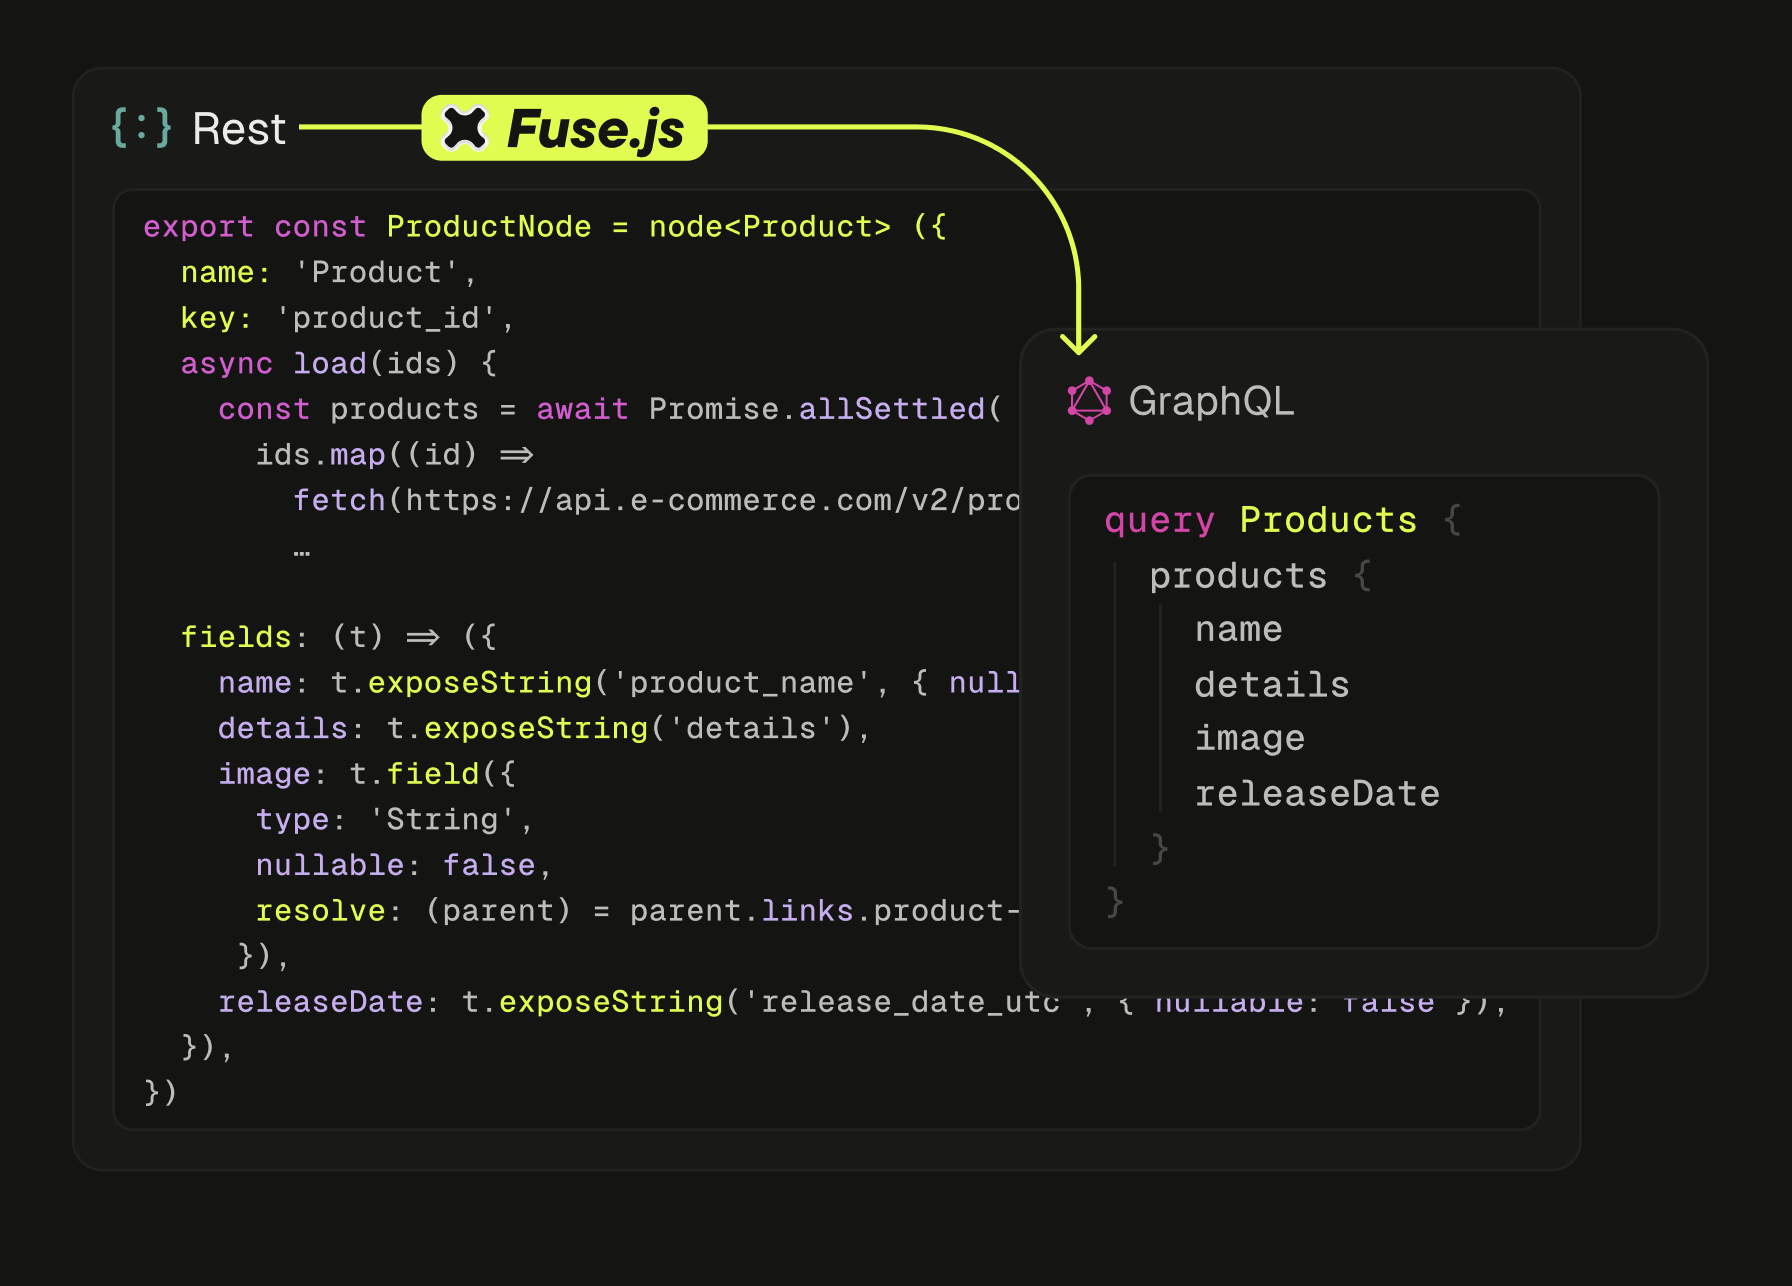
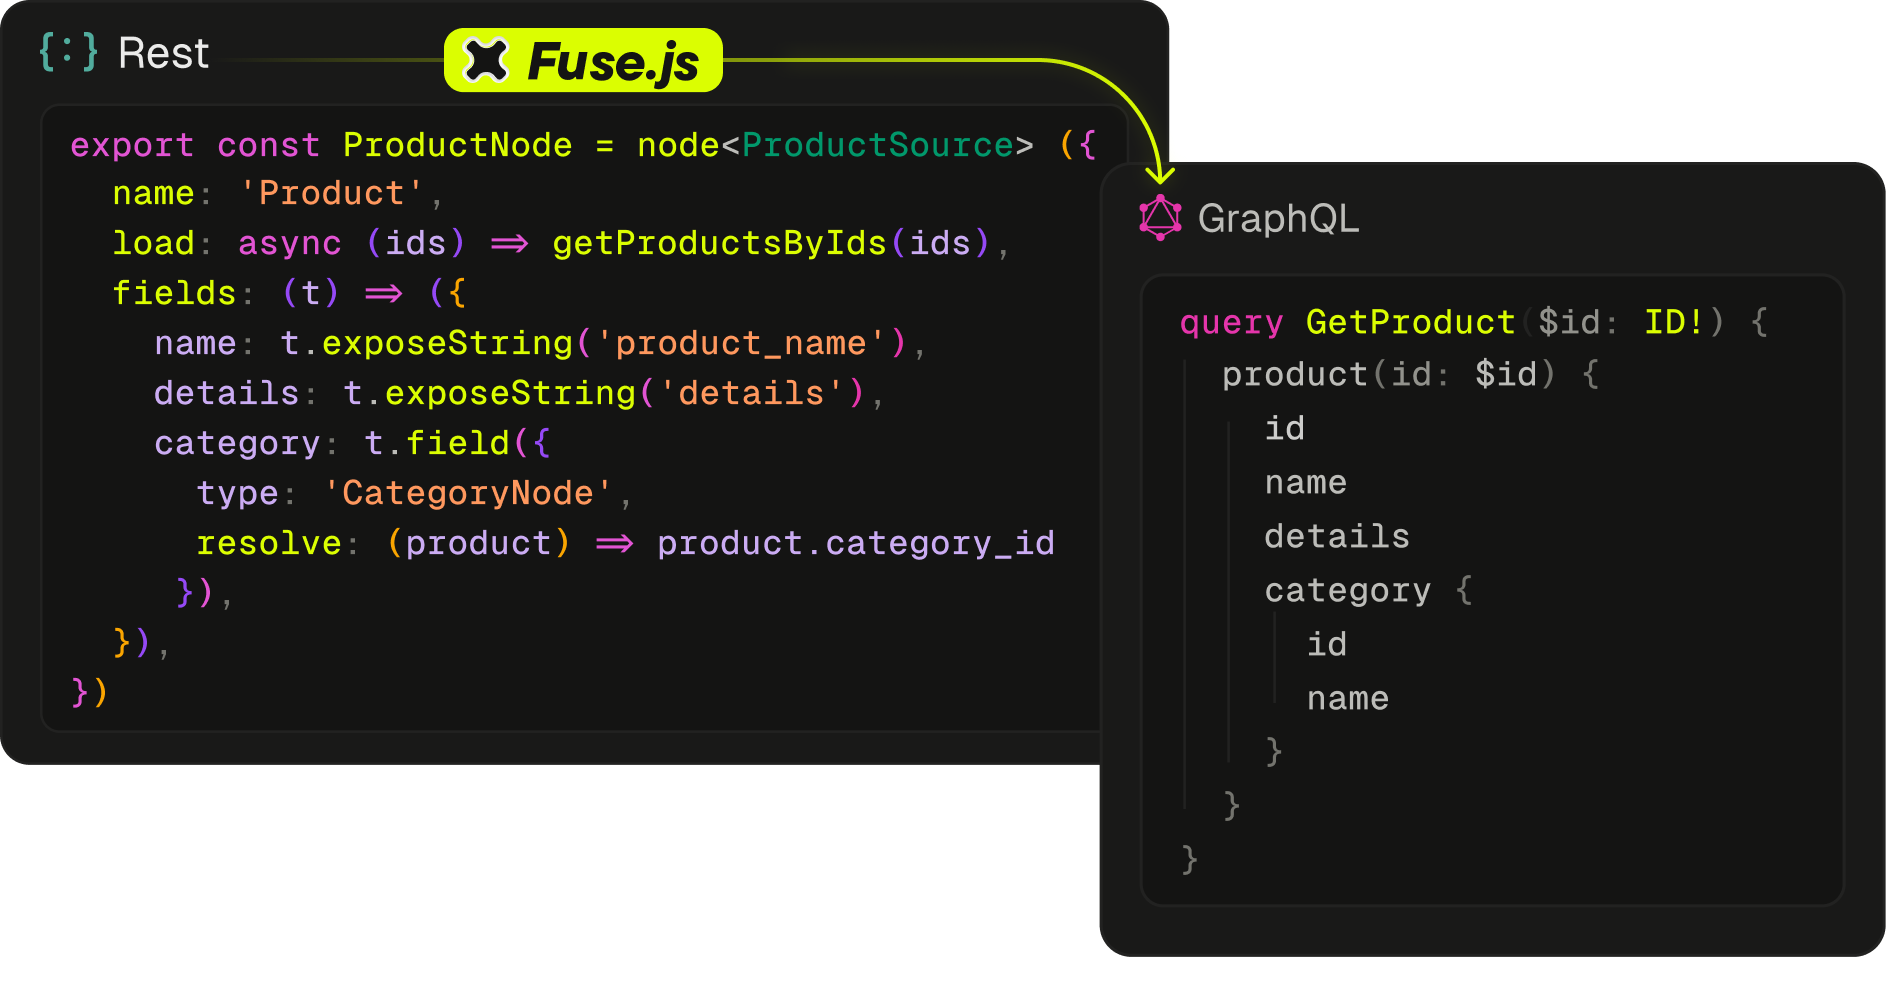
Update website code sample images

diff --git a/website/src/pages/index.tsx b/website/src/pages/index.tsx
@@ -284,7 +284,7 @@ export const IndexPage = () => {
 
           <Section variant="dark" className="flex flex-col gap-14 py-16 pt-40">
             <MaxWidthContainer>
-              <div className="flex min-w-0 flex-col gap-5">
+              <div className="flex min-w-0 flex-col gap-5 md:items-center">
                 <HeadingEyebrow>What&apos;s Fuse.js?</HeadingEyebrow>
                 <Heading level={2}>
                   The best way to build a{' '}
@@ -300,7 +300,20 @@ export const IndexPage = () => {
               </div>
             </MaxWidthContainer>
             <MaxWidthContainer>
-              <img src="/images/homepage-code-sample.png" alt="" />
+              <picture>
+                <source
+                  media="(max-width: 767px)"
+                  srcSet="/images/homepage-code-sample-mobile.png"
+                />
+                <source
+                  media="(min-width: 768px)"
+                  srcSet="/images/homepage-code-sample.png"
+                />
+                <img
+                  src="/images/homepage-code-sample.png"
+                  alt="Code sample showing how Fuse turns a REST API data source into GraphQL"
+                />
+              </picture>
             </MaxWidthContainer>
           </Section>
 
